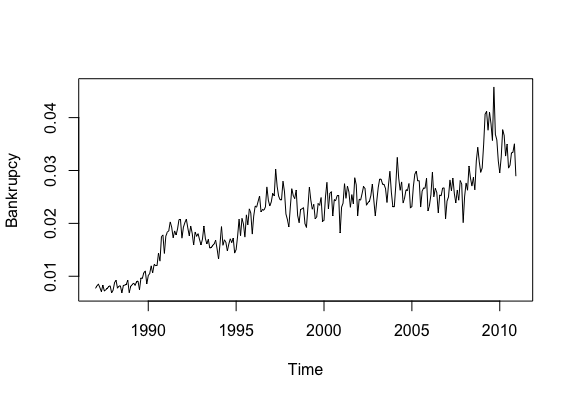
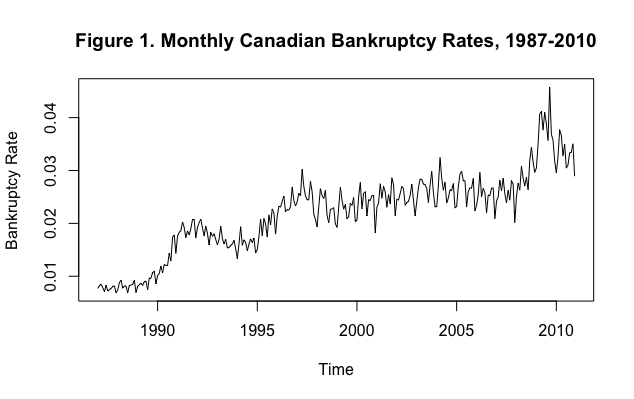
update figures

diff --git a/README.md b/README.md
@@ -30,11 +30,13 @@ They account for the following:
 Model Construction
 ------------------
 
-To select an appropriate modeling approach, we first visualized how bankruptcy data has changed over timefrom 1987 through 2010. As shown inFigure 1, the bankruptcy rates have generally increased since 1987,with marked within-year peaks and valleys and prolonged periods of both growth and decline. The trend over time indicates the need for a model that can handle “non-stationary” data, and cyclical trends indicatethat the model should account for seasonality.
+To select an appropriate modeling approach, we first visualized how bankruptcy data has changed over timefrom 1987 through 2010. As shown in **Figure 1**, the bankruptcy rates have generally increased since 1987,with marked within-year peaks and valleys and prolonged periods of both growth and decline. The trend over time indicates the need for a model that can handle “non-stationary” data, and cyclical trends indicatethat the model should account for seasonality.
 
 ![alt tag](https://github.com/zefeng-zhang/Time-Series-Analysis-of-Canadian-National-Bankruptcy-Rates/blob/master/images/figure1.png)
 
-Next, we looked at the time trends of our external variables (unemployment, population, and HPI) to assesswhether a univariate or multivariate approach would be best.Figure 2plots each of these time series curvesalong with bankruptcy rates, all scaled to fit within the same axis. We judged HPI to be most relatedto bankruptcy so included it in our model, treating it as a one-directional, non-synergistic relationship.Therefore, we chose SARIMAX as our modeling approach.
+Next, we looked at the time trends of our external variables (unemployment, population, and HPI) to assesswhether a univariate or multivariate approach would be best. **Figure 2** plots each of these time series curvesalong with bankruptcy rates, all scaled to fit within the same axis. We judged HPI to be most relatedto bankruptcy so included it in our model, treating it as a one-directional, non-synergistic relationship.Therefore, we chose SARIMAX as our modeling approach.
+
+![alt tag](https://github.com/zefeng-zhang/Time-Series-Analysis-of-Canadian-National-Bankruptcy-Rates/blob/master/images/figure2.png)
 
 In order to tune the model inputs for optimal forecasting accuracy, we fit various models on a subset ofyears, 1987–2005, and validated each model’s performance in predicting bankruptcy rates for 2006–2010.Model fit was determined by calculating the average difference between the predicted bankruptcy rates forour validation time frame and the observed bankruptcy rates for the same period. A smaller difference meanta more accurate prediction and a better fitting model.
 
@@ -47,11 +49,11 @@ Final Model
 
 The final model we chose is a SARIMAX(3,1,3)x(2,0,0)[12] model on log-transformed bankruptcy rates,with housing price index as an external variable. It predicted values of bankruptcy rate close to the actualvalues for the validation time frame, January 2006 to December 2010, while satisfying all required modelingassumptions. Although this model uses outside variables for predicting bankruptcy rates, the model waskept conservative. Housing price index was the only external variable included. This model passes all fourof our modeling assumptions, with residuals demonstrating normality, zero mean, constant variance, and uncorrelatedness.
 
-The bankruptcy rates predicted by the model can be seen inFigure 3andTable 1, below. Included in theplot are 95% prediction intervals. These intervals are the range of values between which we are confident thatthe true forecasted bankruptcy rate lies.
+The bankruptcy rates predicted by the model can be seen in **Figure 3** below. Included in theplot are 95% prediction intervals. These intervals are the range of values between which we are confident thatthe true forecasted bankruptcy rate lies.
 
 In order to forecast with a SARIMAX model, future values of the external variable, housing price index, areneeded. The prediction interval shown in the plot does not account for the uncertainty of predicting futurehousing price index values. Predictions of bankruptcy rate were calculated using the observed housing priceindex for 2011 and 2012.
 
-
+![alt tag](https://github.com/zefeng-zhang/Time-Series-Analysis-of-Canadian-National-Bankruptcy-Rates/blob/master/images/figure3.png)
 
 
 
